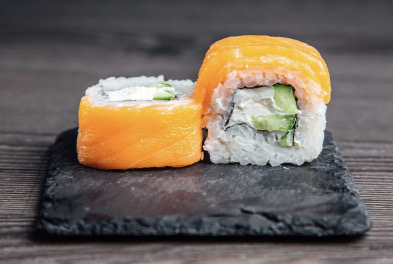
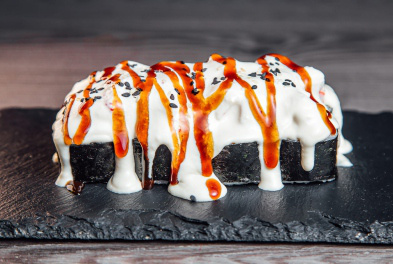
Fix categories and photo: Фила XL, Статус, Самурай → sets; fix Сливочный с угрем photo

diff --git a/src/lib/data/menu.ts b/src/lib/data/menu.ts
@@ -500,10 +500,11 @@ export const menuItems: MenuItem[] = [
   {
     id: "roll-3",
     name: "Филадельфия XL",
-    description: "", // [ЦЕНА?]
-    price: 555,
+    description: "Филадельфия, Канада, Дракон",
+    price: 1380,
+    weight: "24шт/660г",
     image: "/images/filadelfiya-xl.jpg",
-    category: "rolls",
+    category: "sets",
   },
   {
     id: "roll-4",
@@ -987,7 +988,7 @@ export const menuItems: MenuItem[] = [
     description: "",
     price: 485,
     image: "/images/status.jpg",
-    category: "baked-rolls",
+    category: "sets",
   },
   {
     id: "baked-11",
@@ -1117,7 +1118,7 @@ export const menuItems: MenuItem[] = [
     description: "",
     price: 485,
     image: "/images/samurai.jpg",
-    category: "hot-rolls",
+    category: "sets",
   },
   {
     id: "hot-7",
